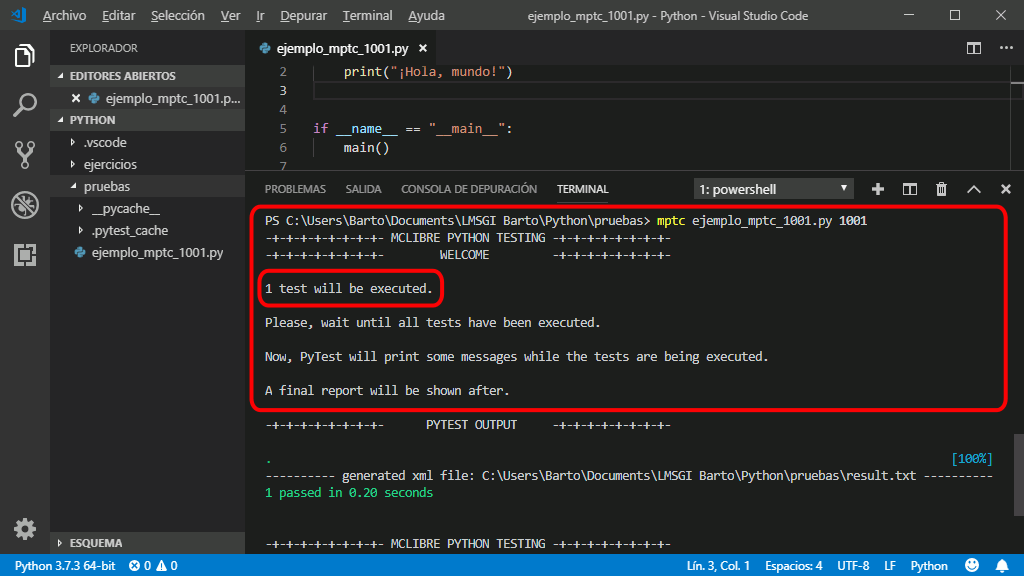
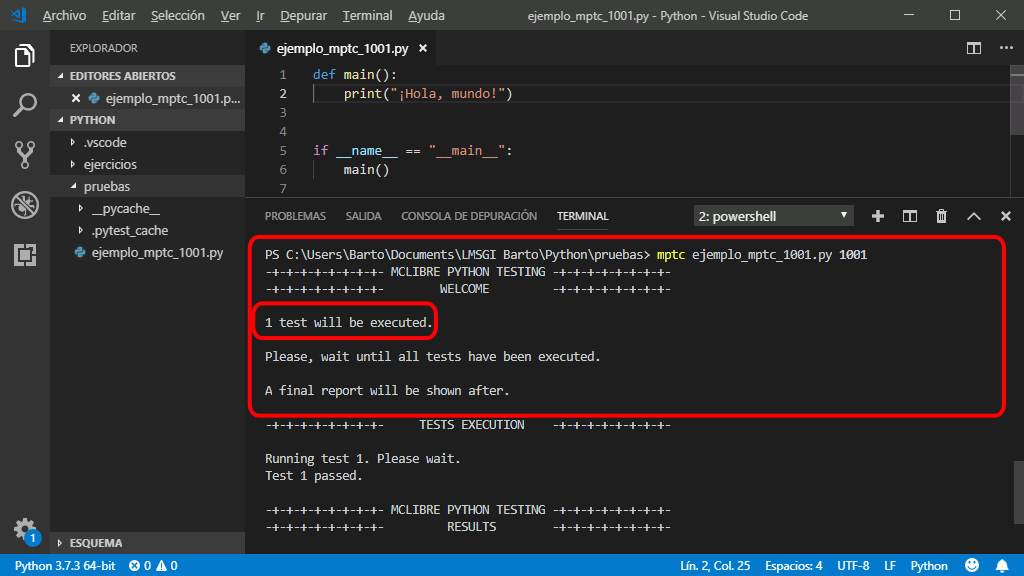
Añado apartados en Uso de MPTC

diff --git a/otros/python-testing.html b/otros/python-testing.html
@@ -26,6 +26,7 @@
         <li><a href="#que-es">Qué es</a></li>
         <li><a href="#como-utilizar">Usar MPTC en terminal</a></li>
         <li><a href="#como-funciona">Cómo funciona MPTC</a></li>
+        <li><a href="#limitaciones">Limitaciones de MPTC</a></li>
         <li><a href="#usar-vsc">Usar MPTC en VSCode</a></li>
         <li><a href="#detalles">Detalles a tener en cuenta</a></li>
       </ul>
@@ -163,8 +164,8 @@ All tests have been passed. Congratulations!
       <li>Corregir en su caso los errores detectados
         <p>En caso de que falle alguno de los tests, MPTC muestra información sobre el error producido, que puede utilizarse para corregir el error.</p>
         <p>Por ejemplo, si el programa probado hubiera sido el siguiente:</p>
-          <div class="codigo">
-            <pre>
+        <div class="codigo">
+          <pre>
 <code class="language-python">def main():
     print("Hola, mundo")
 
@@ -172,11 +173,11 @@ All tests have been passed. Congratulations!
 if __name__ == "__main__":
     main()</code>
 </pre>
-          </div>
+        </div>
 
-          <p>... en el terminal, MPTC hubiera mostrado el siguiente resultado, que nos indica que el mensaje mostrado por el programa no es exactamente igual al solicitado en el enunciado (en este caso, faltan los signos de exclamación):</p>
-            <div class="terminal">
-              <pre class="command-line" data-prompt="C:\Users\...\programas>" data-output="2-29">
+        <p>... en el terminal, MPTC hubiera mostrado el siguiente resultado, que nos indica que el mensaje mostrado por el programa no es exactamente igual al solicitado en el enunciado (en este caso, faltan los signos de exclamación):</p>
+        <div class="terminal">
+          <pre class="command-line" data-prompt="C:\Users\...\programas>" data-output="2-29">
 <code class="language-shell">mptc p_1001.py 1001
 -+-+-+-+-+-+-+-+- MCLIBRE PYTHON TESTING -+-+-+-+-+-+-+-+-
 -+-+-+-+-+-+-+-+-        WELCOME         -+-+-+-+-+-+-+-+-
@@ -208,7 +209,7 @@ Failed test:
 
 </code>
 </pre>
-            </div>
+        </div>
       </li>
     </ol>
   </section>
@@ -226,11 +227,83 @@ Failed test:
           <li>los valores de salida que debería mostrar el programa para los valores de entrada o aleatorios anteriores.</li>
         </ul>
       </li>
+      <li>Los valores de prueba que se reciben del servidor no son siempre los mismos. Las pruebas intentan cubrir todas las sutuaciones que el programa debe resolver. Algunos de los valores sí que se repiten (por ejemplo, los casos límite o los que deben provocar avisos del programa), pero otros se generan de forma aleatoria (por ejemplo, si un programa debe reaccionar de forma distinta en caso de que el usuario escriba un número par o un número impar, habrá siempre una prueba que envíe un número par y otra prueba que envíe un número impar, pero los números concretos enviados variarán en cada ejecución de MPTC).</li>
       <li>MPTC ejecuta el programa del alumno tantas veces como pruebas se han recibido del servidor.</li>
       <li>En cada ejecución, MPTC suplanta al usuario y proporciona al programa los valores de entrada enviados por el servidor. MPTC también suplanta partes del programa, como por ejemplo cuando se generan valores aleatorios. MPTC recoge la salida del programa..</li>
-      <li>MPTC compara la salida del programa con los valores esperados enviados por el servidor. Si coinciden exactamente la prueba se considera superada. Si hay cualquier diferencia la prueba se considera fallada. La diferencia puede ser importante (mensajes completamente distintos a los esperados, resultados numéricos incorrectos, etc.) o poco importante (erratas en algún mensaje como acentos, puntuación, espacios en blanco, mayúsculas, minúsculas, etc.),</li>
-      <li>Finalmente, MPTC muestra un resumen del resultado de las pruebas: cuántas pruebas se han realizado, cuántas se han superado y cuántas han fallado. En el caso de las pruebas falladas, MPTC muestra los valores de entrada y aleatorios utilizados en la prueba y los valores de salida que no coinciden con los esperados. Si la diferencia que ha provocado el fracaso de la prueba es poco importante, el alumno puede corregir fácilmente el programa comparando el valor esperado con el obtenido. Si la diferencia es más importante, el alumno puede corregir el programa ayudándose de los valores de entrada que han provocado el fallo.</li>
+      <li>MPTC compara la salida del programa con los valores esperados enviados por el servidor. Si coinciden exactamente, la prueba se considera superada. Si hay cualquier diferencia, la prueba se considera fallada. La diferencia puede ser importante (mensajes completamente distintos a los esperados, resultados numéricos incorrectos, etc.) o poco importante (erratas en algún mensaje como acentos, puntuación, espacios en blanco, mayúsculas, minúsculas, etc.),</li>
+      <li>Finalmente, MPTC muestra un resumen del resultado de las pruebas: cuántas pruebas se han realizado, cuántas se han superado y cuántas han fallado. En el caso de las pruebas falladas, MPTC muestra los valores de entrada y aleatorios utilizados en la prueba y los valores de salida que no coinciden con los esperados. Si la diferencia que ha provocado el fracaso de la prueba es poco importante 8acentos, mayúsculas, etc.), el alumno puede corregir fácilmente el programa comparando el valor esperado con el obtenido. Si la diferencia es más importante (mensajes o cálculos incorrectos, etc.), el alumno puede corregir el programa ayudándose de los valores de entrada que han provocado el fallo.</li>
     </ul>
+  </section>
+
+  <section id="limitaciones">
+    <h2>Limitaciones de MPTC</h2>
+
+    <p>MPTC no realiza un análisis del programa, simplemente comprueba que la salida del programa coincide con la esperada para unos valores determinados de entrada.</p>
+
+    <p>Si un programa supera todas las pruebas de MPTC, el alumno puede considerar que su programa es muy probablemente correcto, pero no es una garantía absoluta de que el programa no contenga errores. Puede que el programa no funcione correctamente para ciertos valores de entrada que no se han probado o que genere valores aleatorios incorrectos.</p>
+
+    <p>Por otro lado, que un programa no supere las pruebas no significa necesariamente que el programa sea incorrecto. En la mayoría de los casos, cuando un programa trabaja a partir de valores introducidos por el usuario, sí que el fallo en una prueba corresponde a un fallo del programa, pero cuando el programa genera valores aleatorios, puede que el fallo de las pruebas no corresponda a un fallo del programa.</p>
+
+    <hr class="corta">
+
+    <p>Por ejemplo, imaginemos un ejercicio que pide simplemente mostrar un valor de un dado. La solución podría ser el siguiente programa:</p>
+
+    <div class="codigo">
+      <pre>
+<code class="language-python">import random
+
+
+def main():
+    dado = random.randrange(1, 7)
+    print(f"Ha sacado un {dado}.")
+
+
+if __name__ == "__main__":
+  main()</code>
+</pre>
+    </div>
+
+    <p>La prueba MPTC podría consistir en este caso en inyectar un valor aleatorio del uno al seis y comprobar que ese valor se muestra al usuario. Se podrían realizar incluso seis pruebas distintas, inyectando en cada prueba uno de los valores del 1 al 6.</p>
+
+    <p>Sin embargo, consideremos el siguiente programa:</p>
+
+    <div class="codigo">
+      <pre>
+<code class="language-python">import random
+
+
+def main():
+    dado = random.randrange(1, 6)
+    print(f"Ha sacado un {dado}.")
+
+
+if __name__ == "__main__":
+  main()</code>
+</pre>
+    </div>
+
+    <p>Este programa superaría las pruebas MPTC igual que el programa anterior y sin embargo no es correcto, ya que este programa no mostraría nunca el valor 6. Como MPTC sustituye los valores aleatorios generados por el programa por los valores de la prueba, MPTC no puede darse cuenta de que el programa nunca genera el valor 6, porque al inyectar MPTC el valor 6, el programa escribiría el valor 6 correctamente. El problema es que el programa nunca genera el valor 6.</p>
+
+    <p>Consideremos ahora el siguiente programa:</p>
+
+    <div class="codigo">
+      <pre>
+<code class="language-python">import random
+
+
+def main():
+    dado = random.randrange(0, 6)
+    print(f"Ha sacado un {dado + 1}.")
+
+
+if __name__ == "__main__":
+  main()</code>
+</pre>
+    </div>
+
+    <p>Este programa es correcto porque mostraría siempre un valor entre 1 y 6 y sin embargo al pasarle las pruebas MPTC todas las pruebas fallarían. ¿Por qué? Porque al inyectar un valor, por ejemplo 5, MPTC espera que se escriba que se ha sacado un 5, pero este programa escribiría que se ha sacado un 6. El programa es correcto porque genera valores de 0 a 5 y escribe uno más del valor generado, pero como los valores inyectados van del 1 al 6, los resultados no coinciden con los valores inyectados.</p>
+
+    <p>El alumno debe ser consciente de estas limitaciones y utilizar MPTC como lo que es, una herramienta de ayuda para la prueba de programas, pero no como un oráculo infalible.</p>
   </section>
 
   <section id="usar-vsc">
@@ -298,18 +371,45 @@ if __name__ == "__main__":
         <p class="captura">
           <img src="../img/vscode/vsc-mptc-4.png" alt="VSC. Ejecutar MPTC" width="1024" height="576">
         </p>
-        <p>En el terminal, MPTC muestra tres grupos de mensajes. En el primer grupo informa del número de tests que se van a realizar.</p>
-        <p class="captura">
-          <img src="../img/vscode/vsc-mptc-5.png" alt="VSC. Resultado MPTC" width="1024" height="576">
-        </p>
-        <p>En el segundo grupo, MPTC muestra la salida generada por pytest. Los mensajes de éxito se muestran en verde y los mensajes de fallo se muestran en rojo.</p>
-        <p class="captura">
-          <img src="../img/vscode/vsc-mptc-6.png" alt="VSC. Resultado MPTC" width="1024" height="576">
-        </p>
-        <p>En el tercer grupo, MPTC muestra el resultado de la prueba.</p>
-        <p class="captura">
-          <img src="../img/vscode/vsc-mptc-7.png" alt="VSC. Resultado MPTC" width="1024" height="576">
-        </p>
+        <p>En el terminal, MPTC muestra tres grupos de mensajes:</p>
+        <ul>
+          <li>En el primer grupo (WELCOME), MPTC informa del número de tests que se van a realizar.
+            <p class="captura">
+              <img src="../img/vscode/vsc-mptc-5.png" alt="VSC. Resultado MPTC" width="1024" height="576">
+            </p>
+          </li>
+          <li>En el segundo grupo (TESTS EXECUTION), MPTC informa del resultado de cada test a medida que se van ejecutando.
+            <p class="captura">
+              <img src="../img/vscode/vsc-mptc-6.png" alt="VSC. Resultado MPTC" width="1024" height="576">
+            </p>
+          </li>
+          <li>En el tercer grupo, MPTC (RESULTS), MPTC muestra un resumen del resultado final.
+            <p class="captura">
+              <img src="../img/vscode/vsc-mptc-7.png" alt="VSC. Resultado MPTC" width="1024" height="576">
+            </p>
+          </li>
+        </ul>
+      </li>
+      <li>Corregir en su caso los errores detectados
+        <p>En caso de que falle alguno de los tests, MPTC muestra en el terminal información sobre el error producido, que puede utilizarse para corregir el error.</p>
+        <p>En el terminal, MPTC muestra tres grupos de mensajes:</p>
+        <ul>
+          <li>En el primer grupo (WELCOME), MPTC informa del número de tests que se van a realizar.
+            <p class="captura">
+              <img src="../img/vscode/vsc-mptc-8.png" alt="VSC. Resultado MPTC" width="1024" height="576">
+            </p>
+          </li>
+          <li>En el segundo grupo (TESTS EXECUTION), MPTC informa del resultado de cada test a medida que se van ejecutando.
+            <p class="captura">
+              <img src="../img/vscode/vsc-mptc-9.png" alt="VSC. Resultado MPTC" width="1024" height="576">
+            </p>
+          </li>
+          <li>En el tercer grupo, MPTC (RESULTS), MPTC muestra un resumen del resultado final y una explicación más detallada del error producido (en este caso, nos indica que el mensaje mostrado por el programa no es exactamente igual al solicitado en el enunciado ya que faltan los signos de exclamación:
+            <p class="captura">
+              <img src="../img/vscode/vsc-mptc-10.png" alt="VSC. Resultado MPTC" width="1024" height="576">
+            </p>
+          </li>
+        </ul>
       </li>
     </ul>
   </section>
